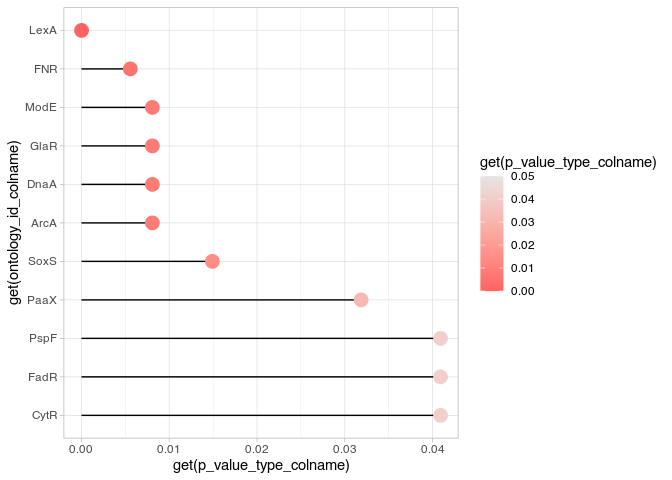
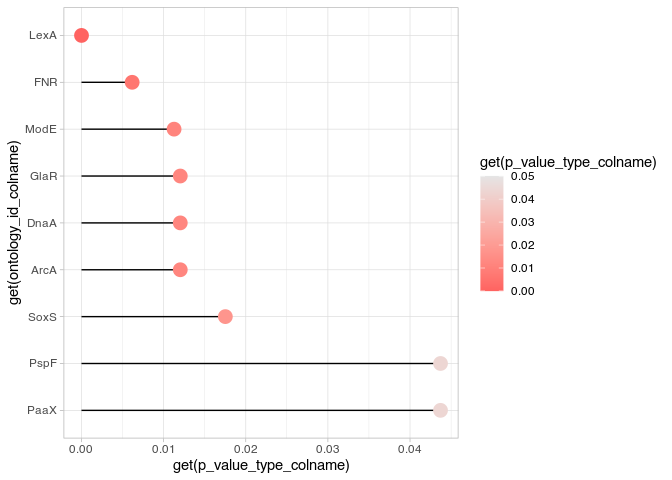
README update, description of the GSEA result visualization

diff --git a/README.md b/README.md
@@ -219,7 +219,7 @@ tf_gmt %>%
 #> [11] "soxR"
 ```
 
-#### **3. Focusing on Relevant Entries for the Enrichment Analysis**
+#### 3. Focusing on Relevant Entries for the Enrichment Analysis
 
 Enrichment analysis results can sometimes be skewed by overly specific
 or broad entries. `mulea` allows you to customize the size of ontology
@@ -311,8 +311,8 @@ sets.
 #### Preparing the Target set
 
 A vector containing the gene symbols of significantly overexpressed
-($adjusted\ p-value < 0.05$) genes with greater than 2 fold-change
-($logFC > 1$).
+(adjusted *p*-value \< 0.05) genes with greater than 2 fold-change
+(logFC \> 1).
 
 ``` r
 sign_genes <- geo2r_result_tab %>% 
@@ -399,7 +399,7 @@ The `ora_results` data frame summarizes the enrichment analysis, listing
 enriched ontology entries – in our case transcription factors –
 alongside their associated *p*-values and *empirical FDR* values. We can
 now determine the number of transcription factors classified as
-“enriched” based on these statistical measures ($eFDR<0.05$).
+“enriched” based on these statistical measures (*eFDR* \< 0.05).
 
 ``` r
 ora_results %>%
@@ -424,14 +424,14 @@ ora_results %>%
 |:------------|:--------------|-------------------------------:|----------------------------------:|----------:|----------:|
 | FNR         | FNR           |                             26 |                               259 | 0.0000003 | 0.0000000 |
 | LexA        | LexA          |                             14 |                                53 | 0.0000000 | 0.0000000 |
-| SoxS        | SoxS          |                              7 |                                37 | 0.0001615 | 0.0026333 |
-| DnaA        | DnaA          |                              4 |                                13 | 0.0006281 | 0.0052333 |
-| Rob         | Rob           |                              5 |                                21 | 0.0004717 | 0.0053200 |
-| FadR        | FadR          |                              5 |                                20 | 0.0003692 | 0.0054750 |
-| NsrR        | NsrR          |                              8 |                                64 | 0.0010478 | 0.0072714 |
-| ArcA        | ArcA          |                             12 |                               148 | 0.0032001 | 0.0201625 |
-| IHF         | IHF           |                             14 |                               205 | 0.0070758 | 0.0452800 |
-| MarA        | MarA          |                              5 |                                37 | 0.0066068 | 0.0478111 |
+| SoxS        | SoxS          |                              7 |                                37 | 0.0001615 | 0.0026000 |
+| DnaA        | DnaA          |                              4 |                                13 | 0.0006281 | 0.0050833 |
+| Rob         | Rob           |                              5 |                                21 | 0.0004717 | 0.0052600 |
+| FadR        | FadR          |                              5 |                                20 | 0.0003692 | 0.0054000 |
+| NsrR        | NsrR          |                              8 |                                64 | 0.0010478 | 0.0069857 |
+| ArcA        | ArcA          |                             12 |                               148 | 0.0032001 | 0.0200625 |
+| IHF         | IHF           |                             14 |                               205 | 0.0070758 | 0.0445600 |
+| MarA        | MarA          |                              5 |                                37 | 0.0066068 | 0.0469778 |
 
 #### Visualizing the ORA Result
 
@@ -499,10 +499,10 @@ plot_barplot(reshaped_results = ora_reshaped_results,
 This function generates a network visualization of the enriched
 transcription factors. Each node represents a transcription factor and
 is coloured based on its significance level. A connection (edge) is
-drawn between two nodes if they share at least one common gene, meaning
-that both transcription factors regulate the expression of the same
-target gene. The thickness of the edge reflects the number of shared
-genes.
+drawn between two nodes if they share at least one common gene belonging
+to the **target set**, meaning that both transcription factors regulate
+the expression of the same target gene. The thickness of the edge
+reflects the number of shared genes belonging to the **target set**.
 
 ``` r
 plot_graph(reshaped_results = ora_reshaped_results,
@@ -521,8 +521,8 @@ plot_graph(reshaped_results = ora_reshaped_results,
 The heatmap displays the genes associated with the enriched
 transcription factors. Each row represents a transcription factor and is
 coloured based on its significance level. Each column represents a
-target gene that is potentially regulated by one or more of the enriched
-transcription factors.
+target gene belonging to the **target set** that is potentially
+regulated by one or more of the enriched transcription factors.
 
 ``` r
 plot_heatmap(reshaped_results = ora_reshaped_results,
@@ -620,8 +620,8 @@ The `gsea_results` data frame summarizes the enrichment analysis,
 listing enriched ontology entries – in our case transcription factors –
 alongside their associated *p*-values and adjusted *p*-value values. We
 can now determine the number of transcription factors classified as
-“enriched” based on these statistical measures
-($adjusted_p_value<0.05$).
+“enriched” based on these statistical measures (adjusted *p*-value \<
+0.05).
 
 ``` r
 gsea_results %>%
@@ -629,7 +629,7 @@ gsea_results %>%
   filter(adjusted_p_value < 0.05) %>% 
   # the number of such rows
   nrow()
-#> [1] 11
+#> [1] 9
 ```
 
 And inspect the significant results:
@@ -644,17 +644,15 @@ gsea_results %>%
 
 | ontology_id | ontology_name | nr_common_genes_ontology_set | nr_common_genes_ontology_background |   p_value | adjusted_p_value |
 |:------------|:--------------|-----------------------------:|------------------------------------:|----------:|-----------------:|
-| LexA        | LexA          |                           53 |                                  61 | 0.0000000 |        0.0000072 |
-| FNR         | FNR           |                          259 |                                 302 | 0.0000728 |        0.0055662 |
-| ArcA        | ArcA          |                          148 |                                 180 | 0.0002939 |        0.0080760 |
-| DnaA        | DnaA          |                           13 |                                  14 | 0.0003167 |        0.0080760 |
-| GlaR        | GlaR          |                            3 |                                   5 | 0.0002803 |        0.0080760 |
-| ModE        | ModE          |                           45 |                                  46 | 0.0002666 |        0.0080760 |
-| SoxS        | SoxS          |                           37 |                                  44 | 0.0006823 |        0.0149139 |
-| PaaX        | PaaX          |                           14 |                                  14 | 0.0016659 |        0.0318611 |
-| CytR        | CytR          |                           13 |                                  13 | 0.0026824 |        0.0409116 |
-| FadR        | FadR          |                           20 |                                  23 | 0.0029414 |        0.0409116 |
-| PspF        | PspF          |                            7 |                                   7 | 0.0028674 |        0.0409116 |
+| LexA        | LexA          |                           53 |                                  61 | 0.0000000 |        0.0000023 |
+| FNR         | FNR           |                          259 |                                 302 | 0.0000807 |        0.0061702 |
+| ModE        | ModE          |                           45 |                                  46 | 0.0002211 |        0.0112740 |
+| ArcA        | ArcA          |                          148 |                                 180 | 0.0004717 |        0.0120280 |
+| DnaA        | DnaA          |                           13 |                                  14 | 0.0004306 |        0.0120280 |
+| GlaR        | GlaR          |                            3 |                                   5 | 0.0003349 |        0.0120280 |
+| SoxS        | SoxS          |                           37 |                                  44 | 0.0008014 |        0.0175163 |
+| PaaX        | PaaX          |                           14 |                                  14 | 0.0025714 |        0.0437134 |
+| PspF        | PspF          |                            7 |                                   7 | 0.0024604 |        0.0437134 |
 
 #### Visualizing the GSEA Results
 
@@ -670,6 +668,14 @@ gsea_reshaped_results <- reshape_results(model = gsea_model,
 
 **Visualizing the spread of adjusted *p*-values: Lollipop plot**
 
+Lollipop charts offer a graphical representation of the distribution of
+enriched transcription factors. The *y*-axis displays the transcription
+factors, while the *x*-axis represents their corresponding adjusted
+*p*-values. The dots are is coloured based on their significance level.
+This visualization helps us examine the spread of adjusted *p*-values
+and identify factors exceeding the commonly used significance threshold
+of 0.05.
+
 ``` r
 plot_lollipop(reshaped_results = gsea_reshaped_results,
               # the column containing the names we wish to plot
@@ -683,6 +689,14 @@ plot_lollipop(reshaped_results = gsea_reshaped_results,
 <img src="man/figures/README-lollipop_plot_gsea-1.png" width="100%" />
 
 **Visualizing the spread of adjusted *p*-values: Bar plot**
+
+Bar charts offer very similar graphical representation of the
+distribution of enriched transcription factors as the lollipop plot. The
+*y*-axis displays the transcription factors, while the *x*-axis
+represents their corresponding adjusted *p*-values. The bars are is
+coloured based on their significance level. This visualization helps us
+examine the spread of adjusted *p*-values and identify factors exceeding
+the commonly used significance threshold of 0.05.
 
 ``` r
 plot_barplot(reshaped_results = gsea_reshaped_results,
@@ -698,6 +712,14 @@ plot_barplot(reshaped_results = gsea_reshaped_results,
 
 **Visualizing Relationships: Network Plot**
 
+This function generates a network visualization of the enriched
+transcription factors. Each node represents a transcription factor and
+is coloured based on its significance level. A connection (edge) is
+drawn between two nodes if they share at least one common gene belonging
+to the **ranked list**, meaning that both transcription factors regulate
+the expression of the same target gene. The thickness of the edge
+reflects the number of shared genes belonging to the **ranked list**.
+
 ``` r
 plot_graph(reshaped_results = gsea_reshaped_results,
            # the column containing the names we wish to plot
@@ -711,6 +733,14 @@ plot_graph(reshaped_results = gsea_reshaped_results,
 <img src="man/figures/README-network_plot_gsea-1.png" width="100%" />
 
 **Heatmap**
+
+The heatmap displays the genes associated with the enriched
+transcription factors. Each row represents a transcription factor and is
+coloured based on its significance level. Each column represents a
+target gene belonging to the **ranked list** that is potentially
+regulated by one or more of the enriched transcription factors. There
+are too many genes belonging to each transcription factor, therefore
+heatmap visualization is less optimal in this case.
 
 ``` r
 plot_heatmap(reshaped_results = gsea_reshaped_results,
